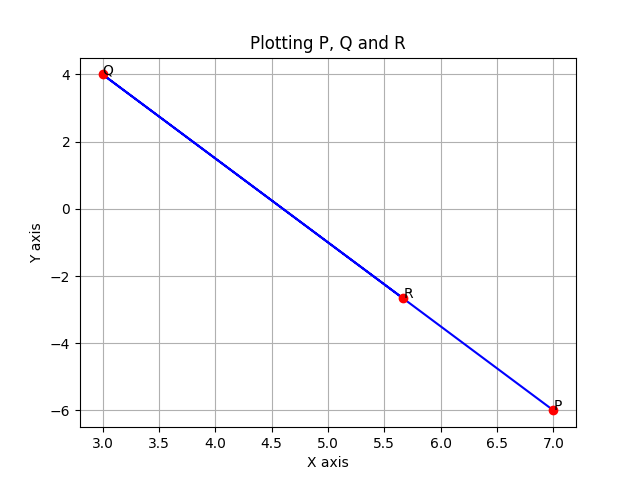
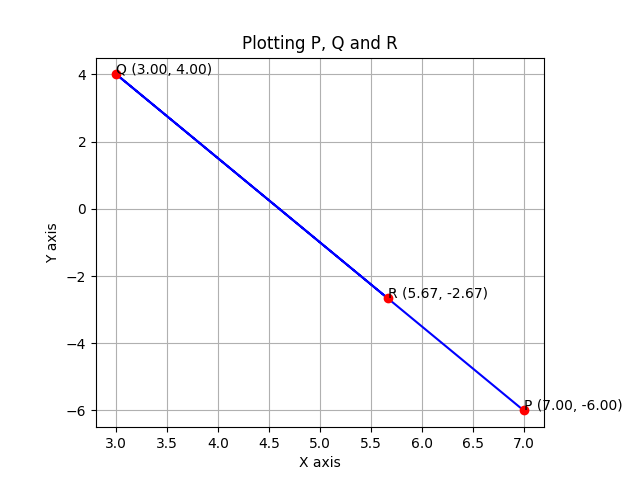
revise matgeo 1.4.15

diff --git a/ai25btech11040/matgeo/1.4.15/code/code.py b/ai25btech11040/matgeo/1.4.15/code/code.py
@@ -1,8 +1,8 @@
 import matplotlib.pyplot as plt
 import numpy as np
 
-p = np.array([[7], [-6]])
-q = np.array([[3], [4]])
+p = np.array([7, -6])
+q = np.array([3, 4])
 
 l = 1
 m = 2
@@ -13,16 +13,18 @@ points = [p, q, r]
 x = [a[0] for a in points]
 y = [a[1] for a in points]
 
-if (r[0][0] > 0 and r[1][0] > 0):
+if (r[0] > 0 and r[1] > 0):
     print("Q1")
-if (r[0][0] > 0 and r[1][0] < 0):
+if (r[0] > 0 and r[1] < 0):
     print("Q4")
-if (r[0][0] < 0 and r[1][0] > 0):
+if (r[0] < 0 and r[1] > 0):
     print("Q2")
-if (r[0][0] < 0 and r[1][0] < 0):
+if (r[0] < 0 and r[1] < 0):
     print("Q3")
 
 fig, ax = plt.subplots()
+
+fig.subplots_adjust(left=0.15, right=0.85)
 
 ax.set_xlabel('X axis')
 ax.set_ylabel('Y axis')
@@ -32,7 +34,7 @@ ax.plot(x, y, 'b-')
 ax.plot(x, y, 'ro')
 ax.grid()
 
-ax.annotate('P', p)
-ax.annotate('Q', q)
-ax.annotate('R', r)
+ax.annotate(f'P ({p[0]:.2f}, {p[1]:.2f})', p)
+ax.annotate(f'Q ({q[0]:.2f}, {q[1]:.2f})', q)
+ax.annotate(f'R ({r[0]:.2f}, {r[1]:.2f})', r)
 fig.savefig('figs/plot.png')
